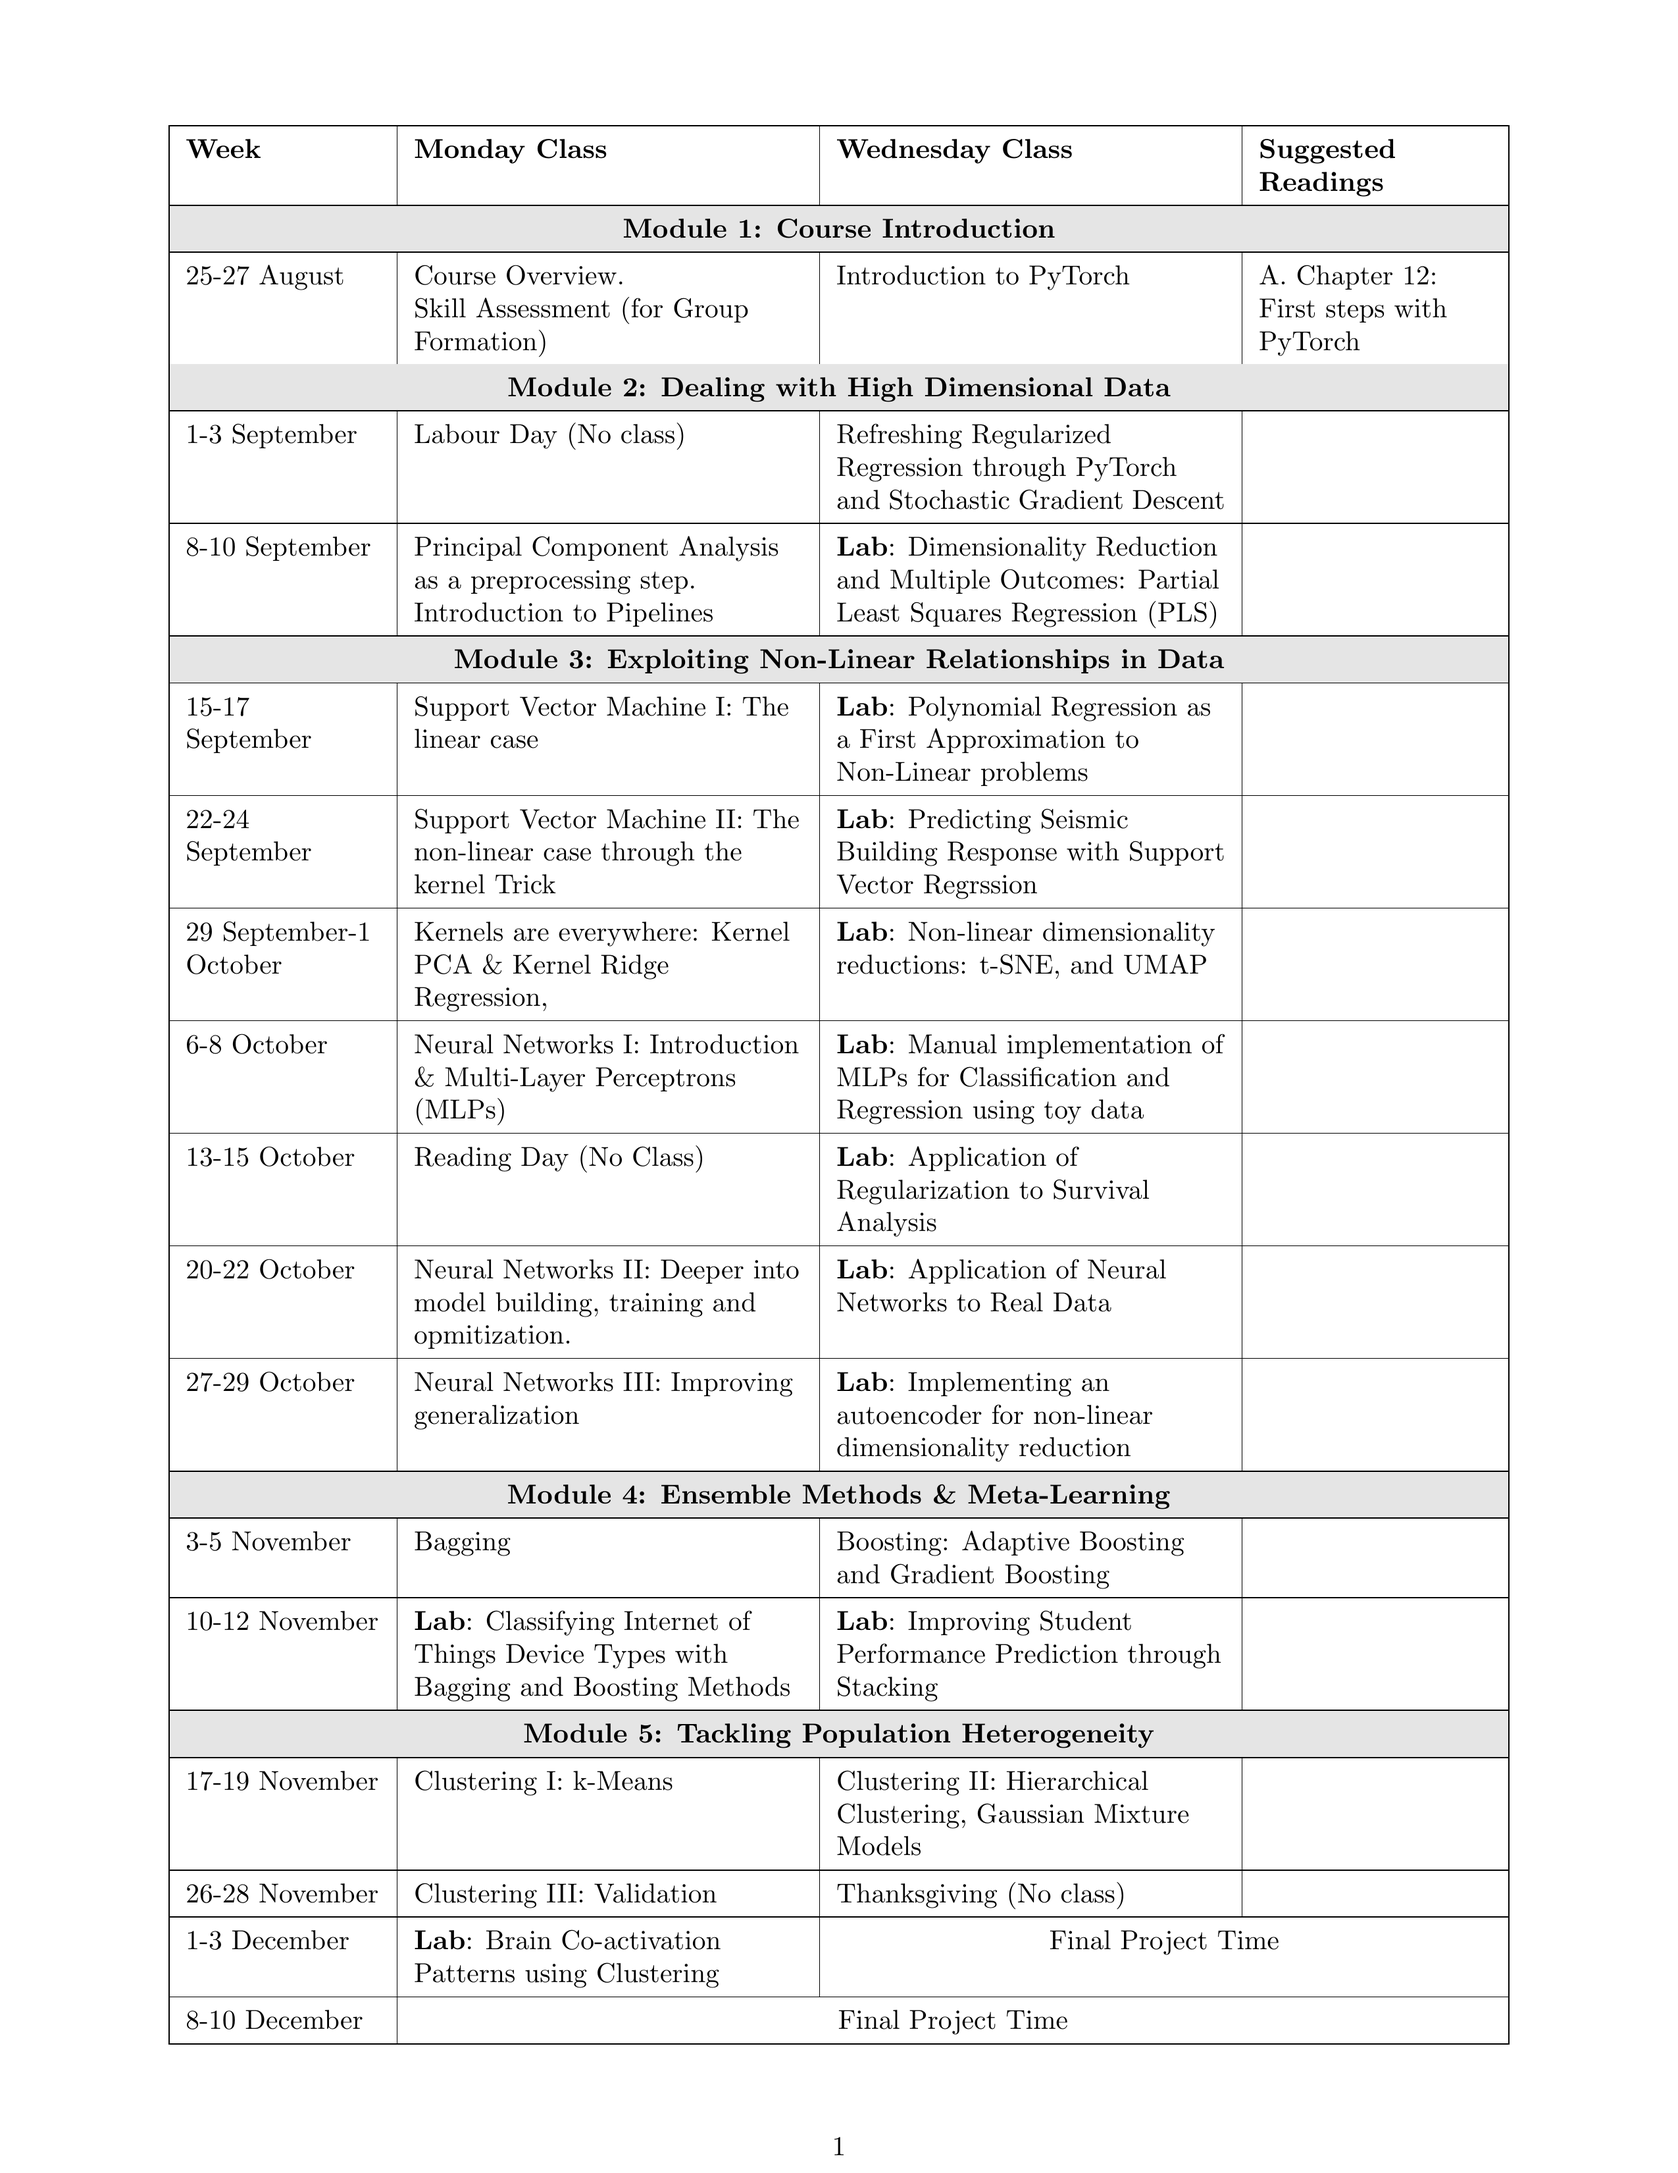
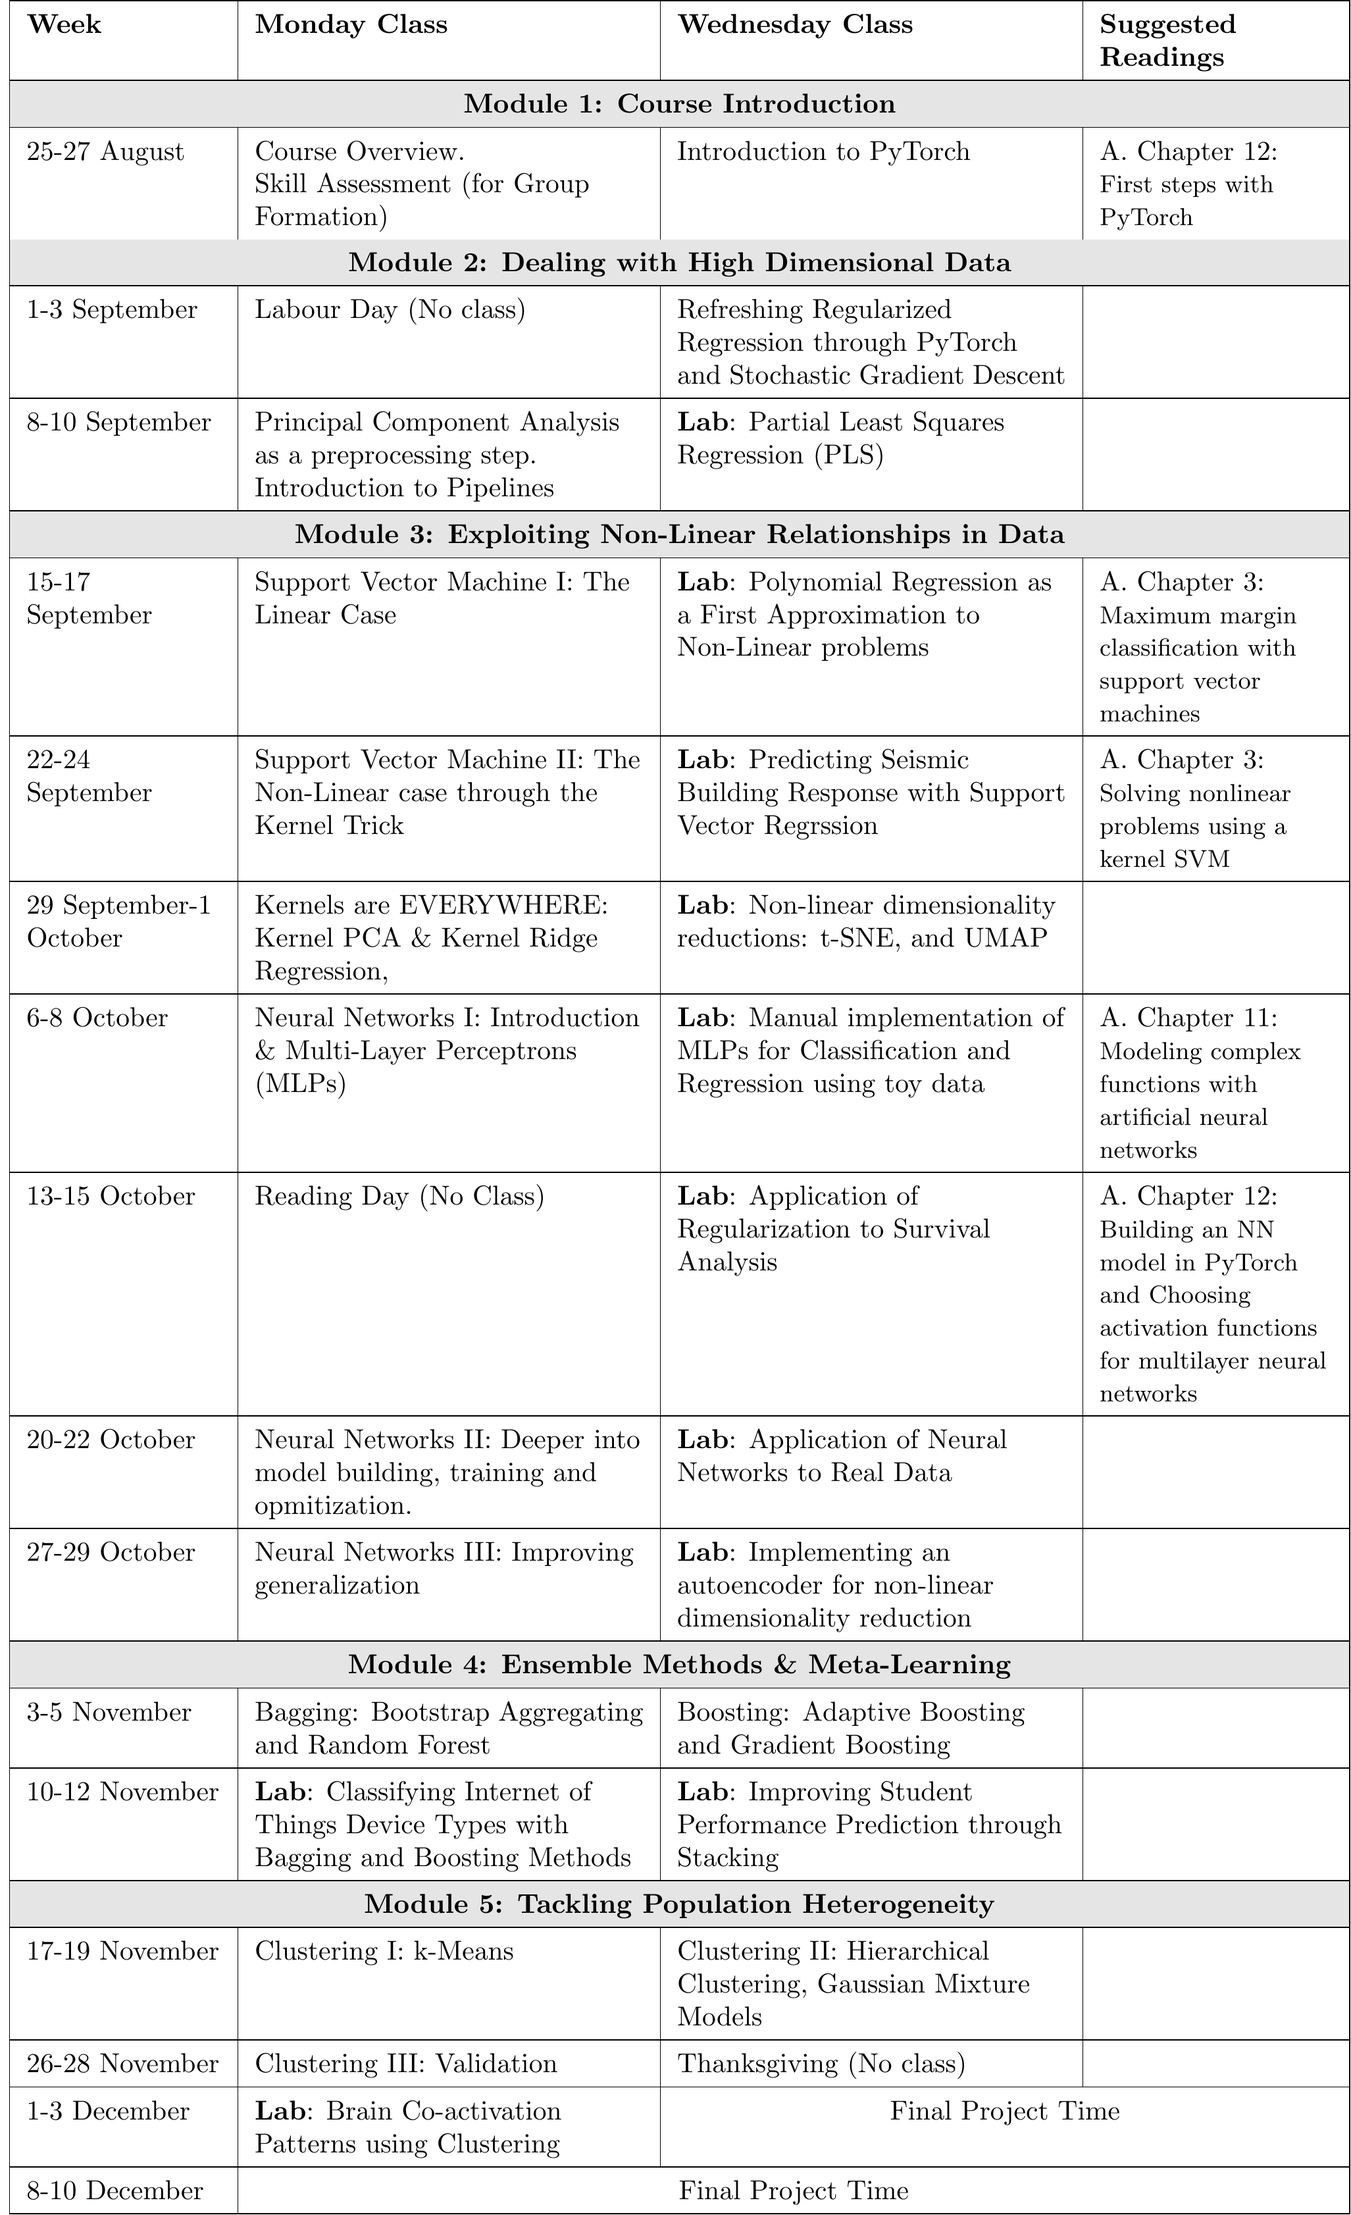
introduction to the course, and schedule

diff --git a/schedule.tex b/schedule.tex
@@ -1,40 +1,43 @@
-\documentclass{article}
-\usepackage[margin=0.5in]{geometry}
+\documentclass{standalone}
+
+%\usepackage[margin=1in]{geometry}
 \usepackage{longtable}
 \usepackage{array}
 \usepackage[table]{xcolor}
 \usepackage{graphicx}
+\pagenumbering{gobble}
 
 \begin{document}
 
 \renewcommand{\arraystretch}{1.4}
 
-\begin{longtable}{|>{\raggedright}p{2.5cm}|>{\raggedright}p{5cm}|>{\raggedright}p{5cm}|>{\raggedright\arraybackslash}p{3cm}|}
+\begin{tabular}{|>{\raggedright}p{2.5cm}|>{\raggedright}p{5cm}|>{\raggedright}p{5cm}|>{\raggedright\arraybackslash}p{3cm}|}
 \hline
 \textbf{Week} & \textbf{Monday Class} & \textbf{Wednesday Class} & \textbf{Suggested Readings} \\
 \hline
 \multicolumn{4}{|c|}{\cellcolor{gray!20}\textbf{Module 1: Course Introduction}} \\
 \hline
 25-27 August & Course Overview. \newline Skill Assessment (for Group Formation) & Introduction to PyTorch &
-A. Chapter 12: First steps with PyTorch\\
+A. Chapter 12: {\small First steps with PyTorch}\\
 \multicolumn{4}{|c|}{\cellcolor{gray!20}\textbf{Module 2: Dealing with High Dimensional Data}} \\
 \hline
 1-3 September & Labour Day (No class) & Refreshing Regularized Regression through PyTorch and Stochastic Gradient Descent  & \\
 \hline
-8-10 September & Principal Component Analysis as a preprocessing step. \newline Introduction to Pipelines & {\bf Lab}: Dimensionality Reduction and Multiple Outcomes: Partial Least Squares Regression (PLS) & \\
+8-10 September & Principal Component Analysis as a preprocessing step. \newline Introduction to Pipelines & {\bf Lab}: Partial Least Squares Regression (PLS) & \\
 \hline
 \multicolumn{4}{|c|}{\cellcolor{gray!20}\textbf{Module 3: Exploiting Non-Linear Relationships in Data}} \\
 \hline
-15-17 September & Support Vector Machine I: The linear case & {\bf Lab}: Polynomial Regression as a First Approximation to Non-Linear problems & \\
+15-17 September & Support Vector Machine I: The Linear Case & {\bf Lab}: Polynomial Regression as a First Approximation to Non-Linear problems & A. Chapter 3: {\small Maximum margin classification with support vector machines}\\
 \hline
-22-24 September & Support Vector Machine II: The non-linear case through the kernel Trick & {\bf Lab}: Predicting Seismic Building Response with Support Vector Regrssion & \\
+22-24 September & Support Vector Machine II: The Non-Linear case through the Kernel Trick & {\bf Lab}: Predicting Seismic Building Response with Support Vector Regrssion & A. Chapter 3: {\small Solving nonlinear problems using a kernel SVM}\\
 \hline
-29 September-1 October & Kernels are everywhere: Kernel PCA \& Kernel Ridge Regression,  & {\bf Lab}: Non-linear dimensionality reductions: t-SNE, and UMAP
+29 September-1 October & Kernels are EVERYWHERE: Kernel PCA \& Kernel Ridge Regression,  & {\bf Lab}: Non-linear dimensionality reductions: t-SNE, and UMAP
  & \\
 \hline
-6-8 October & Neural Networks I: Introduction \& Multi-Layer Perceptrons (MLPs) & {\bf Lab}: Manual implementation of MLPs for Classification and Regression using toy data & \\
+6-8 October & Neural Networks I: Introduction \& Multi-Layer Perceptrons (MLPs) & {\bf Lab}: Manual implementation of MLPs for Classification and Regression using toy data & A. Chapter 11: {\small  Modeling complex functions with artificial neural networks}\\
 \hline
-13-15 October & Reading Day (No Class) & {\bf Lab}: Application of Regularization to Survival Analysis & 
+13-15 October & Reading Day (No Class) & {\bf Lab}: Application of Regularization to Survival Analysis & A. Chapter 12: {\small Building an NN model in PyTorch and Choosing activation functions for multilayer neural
+networks}%. A. Chapter 13: {\small Making model building more flexible with nn.Module"}
 \\
 \hline
 20-22 October & Neural Networks II: Deeper into model building, training and opmitization. & {\bf Lab}: Application of  Neural Networks to Real Data & \\
@@ -43,7 +46,7 @@ A. Chapter 12: First steps with PyTorch\\
 \hline
 \multicolumn{4}{|c|}{\cellcolor{gray!20}\textbf{Module 4: Ensemble Methods \& Meta-Learning}} \\
 \hline
-3-5 November & Bagging & Boosting: Adaptive Boosting and Gradient Boosting & \\
+3-5 November & Bagging: Bootstrap Aggregating and Random Forest & Boosting: Adaptive Boosting and Gradient Boosting & \\
 \hline
 10-12 November & {\bf Lab}: Classifying Internet of Things Device Types with Bagging and Boosting Methods  & {\bf Lab}:  Improving Student Performance Prediction through Stacking & \\
 \hline
@@ -57,6 +60,7 @@ A. Chapter 12: First steps with PyTorch\\
 \hline
 8-10 December & \multicolumn{3}{c|}{Final Project Time} \\
 \hline
-\end{longtable}
+\end{tabular}
+
 
 \end{document}

diff --git a/README.md b/README.md
@@ -1,5 +1,11 @@
 # DS 4021 – Analytics II: Machine Learning
 
+This course continues where Machine Learning I (DS-3021) left off, moving into more advanced and powerful approaches, particularly neural networks, kernel-based algorithms, and ensemble learning. You will gain a deeper understanding of core ML concepts while comparing methods and discussing how performance, complexity, and predictive power evolve as models become more sophisticated.
+
+The course emphasizes understanding over blind implementation. More than often, you will implement models from scratch rather than relying solely on libraries. You will be challenged to evaluate their assumptions, strengths, and weaknesses. Self-learning and group work are central components, developed through a mix of labs, team-based projects, combining theory, application, discussion and reflection. The course is structured to support students from diverse backgrounds, with ample opportunities for collaboration, TA support, and office hours.
+
+Ultimately, ML2 seeks to provide a first experience as a real-life practicing data scientist, where advanced models and critical thinking are typically required. It also aims to expand your toolkit with new methods and encourages you to share discoveries with your peers as you improve your ability to generate meaningful insights from data.
+
 ## What you will learn
 
 These are the main learning objectives:
@@ -15,7 +21,6 @@ These are the main learning objectives:
 - Communicate technical findings clearly and effectively, both in written reports and oral presentations. 
 - Reflect on individual contributions, strengths, and areas for improvement, incorporating peer and self-critique into a growth-oriented learning process.
 
-
 ## How you will learn
 
 Each week, you will be expected to review short video lectures and complete assigned readings before coming to class. The videos serve as a brief introduction to the main concepts, which will be expanded upon during the first class of the week through a hands-on Jupyter Notebook walkthrough.
@@ -24,15 +29,14 @@ Since Data Science is inherently collaborative, nearly every week will include a
 
 Groups will be formed at the beginning of the semester by balancing skill levels, and you will work with the same group throughout the course.
 
-
 ## Evaluation Criteria
-   
+
 - **Labs (50%)**: On most weeks, we will have in-class labs or assignments. These are designed to help you either practice the skills being presented in class or explore new material related to the week's theme. These are **group assignments**, and you are expected to work closely with your group mates to divide and complete the different tasks. The deliverable will be the completed Jupyter Notebook, to be submitted by the group and which will determine the grade of this assignment. Additionally, each member of the team will submit an individual report describing the specific tasks they contributed to, along with a positive critique of themselves, a negative critique, and a brief plan for how they intend to avoid repeating the same mistake in future assignments. Each member must submit this individual report separately in order to receive a grade
-    
+
 - **Final projects (30%)**: The course will culminate in a final project involving work with a dataset of your choice. This is a **group assignment**, and you will be working with the same group you collaborated with on the lab assignments. As a group, you will submit a GitHub repository containing well-annotated code, a final report summarizing your findings, and a brief slide deck presenting those findings. Additionally, and similar to the lab assignments, each member of the team will submit an individual report describing the specific tasks they contributed to, along with a positive critique of themselves, a negative critique, and a brief plan for how they intend to avoid repeating the same mistake in a similar future situation. Each member must submit this individual report separately in order to receive a grade. This is an open-ended project designed to allow each group to explore a topic of interest from the semester in greater depth. Depending on time availability, each group will present their findings in class.
 
-- **Quizzes (20%)**
-    
+- **Quizzes (20%)**: Short quizzes will be given occasionally—at least two during the course—to support and reinforce the learning objectives. Quizzes will be auto-graded and must be completed by each student individually. Each quiz allows two attempts, so please make sure you are prepared before starting.
+
 ## Materials
 
 * A. [**Python Machine Learning with PyTorch and Scikit-Learn, 4th Edition**](https://sebastianraschka.com/blog/2022/ml-pytorch-book.html) Freely available on O'Reilly with your UVA account.
@@ -40,13 +44,11 @@ Groups will be formed at the beginning of the semester by balancing skill levels
 * C. [**The Elements of Statistical Learning: Data Mining, Inference, and Prediction**](https://hastie.su.domains/ElemStatLearn/) Free PDF.
 * D. [**Pattern Recognition and Machine Learning**](https://www.microsoft.com/en-us/research/people/cmbishop/prml-book/) Free PDF.
 
-
 ## Course Schedule
 
 This is the schedule for the core structure of the course. Please be aware that adjustments may occur throughout the semester, as sometimes things do not go exactly as planned. Any changes will be communicated.
 
 ![Course Schedule](schedule.png)
-
 
 ## A few Policies that will Govern the Class
 
@@ -54,21 +56,24 @@ This is the schedule for the core structure of the course. Please be aware that 
 
 **Grading Scale**: 
 
- - 93-100 A
- - 90-92 A- 
- - 87-89 B+
- - 83-86 B 
- - 80-82 B- 
- - 77-79 C+ 
- - 73-76 C 
- - 70-72 C- 
- - <70 F
+- 93-100 A
+- 90-92 A- 
+- 87-89 B+
+- 83-86 B 
+- 80-82 B- 
+- 77-79 C+ 
+- 73-76 C 
+- 70-72 C- 
+- <70 F
 
 **Collaboration and Conflict Resolution**: Should any conflict arise within your group—for example, uneven workload distribution or communication breakdowns—please first make an effort to address the issue respectfully among your group members. If the problem persists or becomes difficult to resolve, group members should reach out to the instructor or TA as early as possible. Addressing concerns early allows us to work together toward a constructive solution before the issue impacts your work or group dynamic.
 
+**Late work**: Late submissions will NOT be accepted except in cases of emergency, such as illness or family matters. If you anticipate a conflict in advance—for example, due to athletics or another university activity—please reach out ahead of time so we can arrange a suitable alternative for submission.
+
 **Use of Large Language Model tools:** The use of Large Language Models (e.g., ChatGPT) is acceptable and even encouraged for the coding aspects of the lab assignments and final project, although with caveats. You need to remember that they may make mistakes, so any code generated by this kind of tools should be carefully checked. On the other hand, using LLM in the writing parts of the assignments and final project is discouraged, as it may hinder your own learning. Finally, their use is strictly prohibited during and for quizzes.
+
+**Religious Accomodations**: It is the University's long-standing policy and practice to reasonably accommodate students so that they do not experience adverse academic consequences when sincerely held religious beliefs or observances conflict with academic requirements. Students who wish to request academic accommodations for a religious observance should submit their request to the instructor by email as far in advance as possible.  If you have questions or concerns about your request, you can contact the University's Office for Equal Opportunity and Civil Rights (EOCR) at UVAEOCR@virginia.edu or (434) 924-3200. Accommodations do not relieve you of the responsibility for the completion of any part of the coursework you miss as the result of a religious observance.
 
 **University of Virginia Honor System**: By enrolling in this course, all students are expected to uphold the University of Virginia Honor System (https://honor.virginia.edu/course/honor-code). This includes abiding by the Honor Code in all aspects of the course.
 
 **Special Needs**:  The University of Virginia accommodates students with disabilities. Any SCPS student with a disability who needs accommodation (e.g., in arrangements for seating, extended time for examinations, or note-taking, etc.), should contact the Student Disability Access Center (SDAC) and provide them with appropriate medical or psychological documentation of his/her condition. Once accommodations are approved, just follow up with me concerning any logistics and implementation of accommodations.  Please try to make accommodations for test-taking at least 14 business days in advance of the date of the test(s). Students with disabilities are encouraged to contact the SDAC: 434-243-5180/Voice, 434-465-6579/Video Phone, 434-243-5188/Fax. Further policies and statements are available at www.virginia.edu/studenthealth/sdac/sdac.html
-
